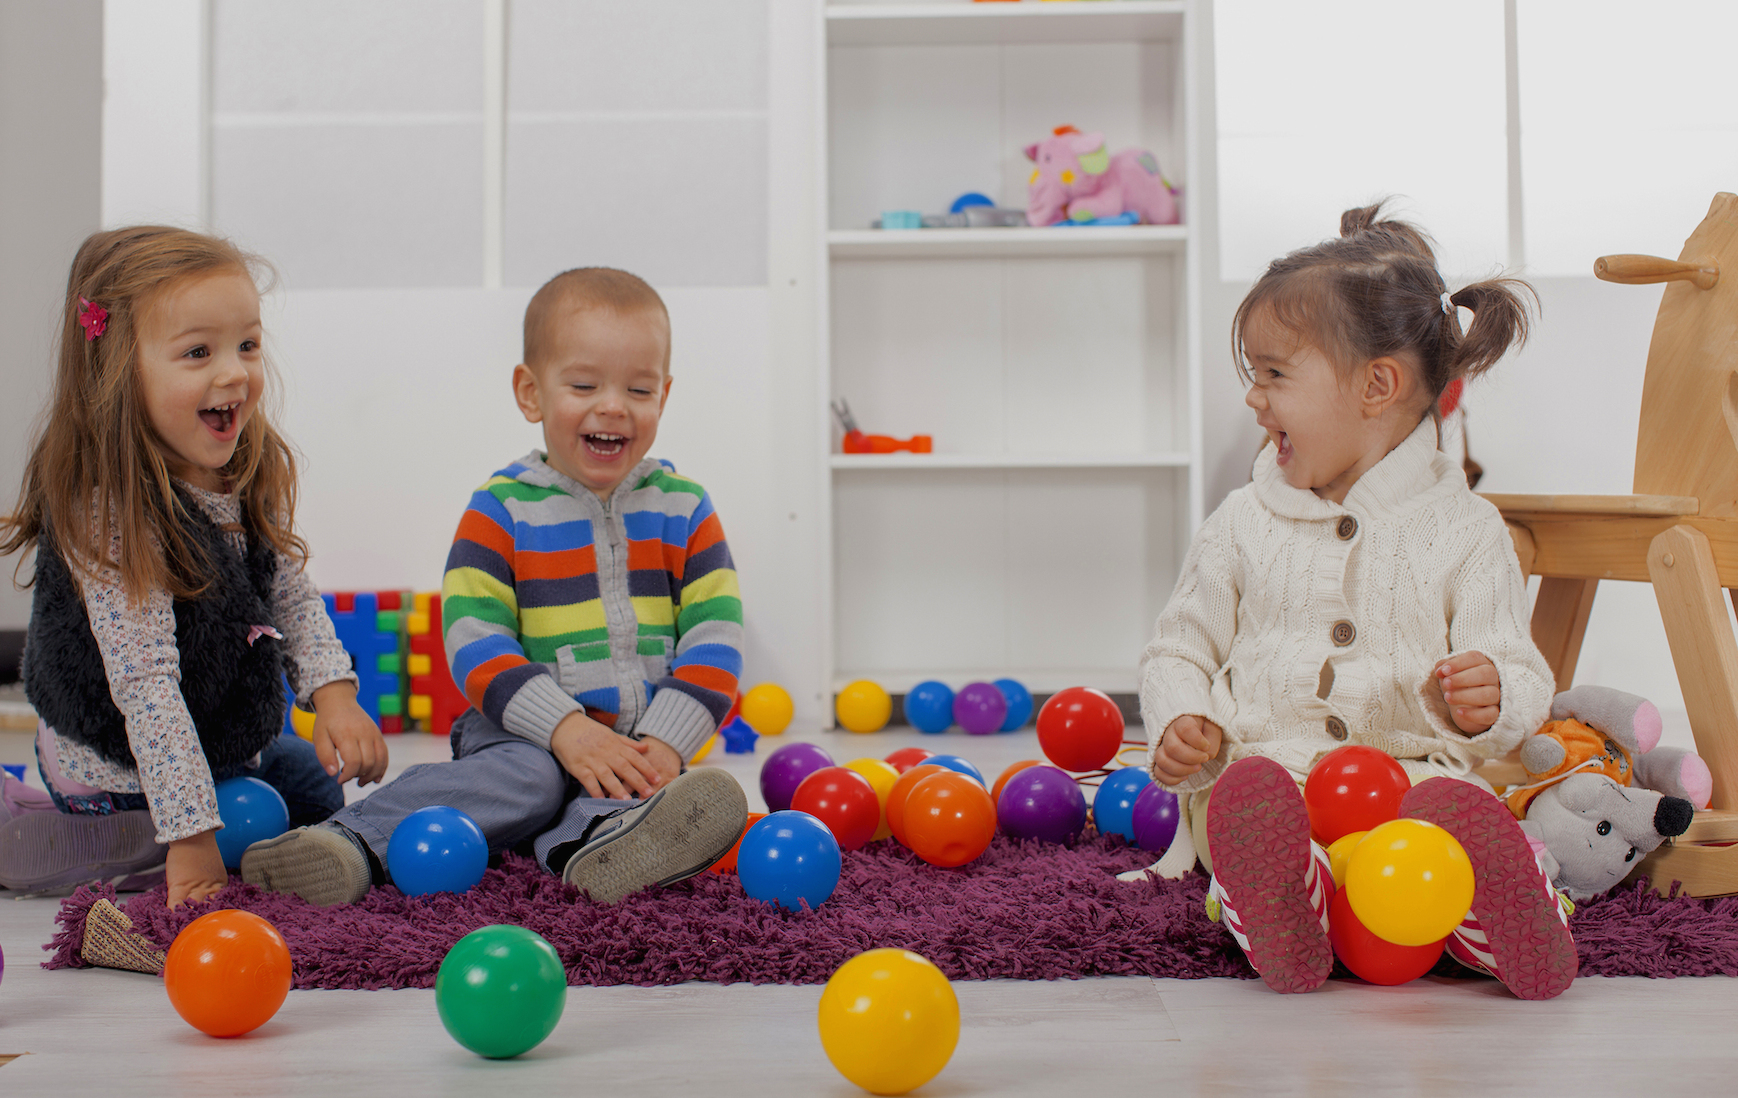
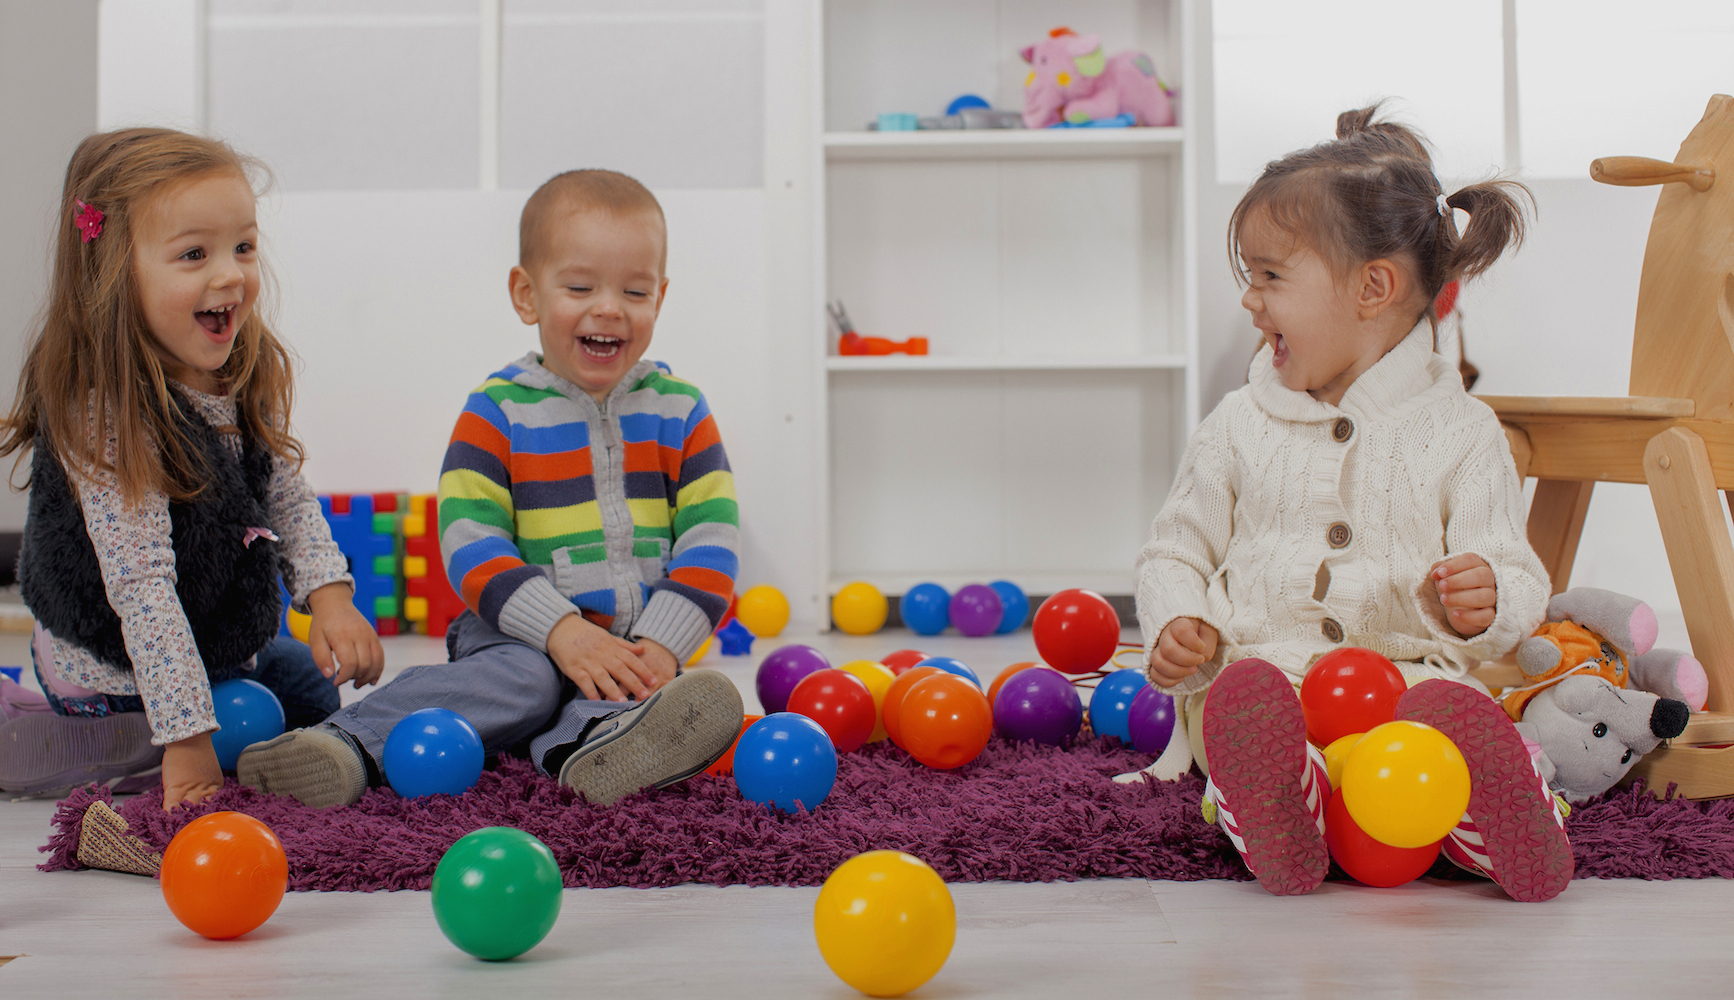
add express handlebars

diff --git a/server.js b/server.js
@@ -2,17 +2,18 @@ var http = require("http");
 var fs = require("fs");
 var express = require("express");
 var bodyParser = require("body-parser");
+var handlebars = require("express-handlebars");
 
 var app = express();
 
+app.engine('handlebars', handlebars({defaultLayout: 'main'}));
+app.set('view engine', 'handlebars');
 app.use(bodyParser.urlencoded());
 app.use(express.static('public'));
 
 app.get("/", function(req, res) {
-  fs.readFile("index.html", "utf8", function(err, data) {
-    res.end(data);
-  });
-})
+  res.render('home');
+});
 
 var server = http.createServer(app);
 server.listen(8080);

diff --git a/public/css/styles.css b/public/css/styles.css
@@ -21,12 +21,13 @@
 
 .splash-image {
   background-image: url("/images/children_with_balls.jpg");
-  height: 700px;
+  height: 650px;
+  padding-top: 100px;
   color: white;
 }
 
 .slogans {
-  margin-top: 100px;
+  /*margin-top: 100px;*/
   text-align: center;
   text-shadow: 0 1px 0 #666;
 }
